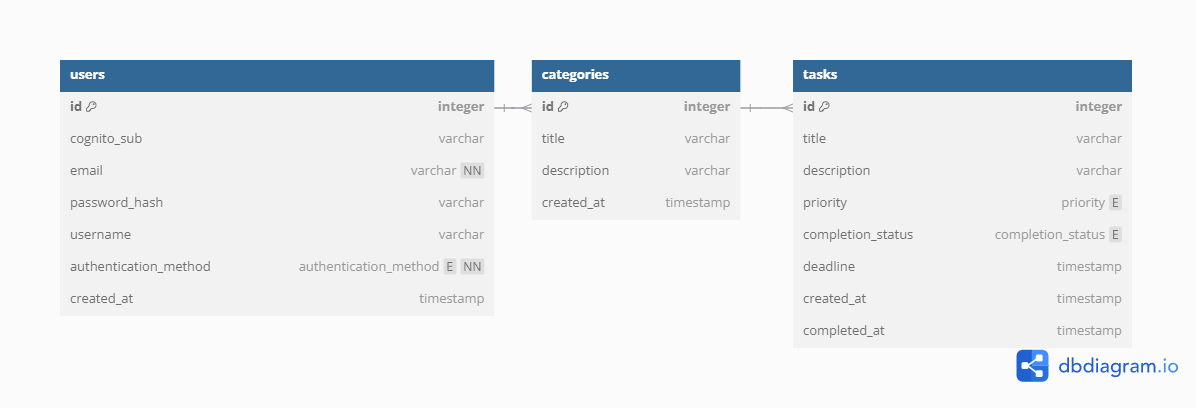
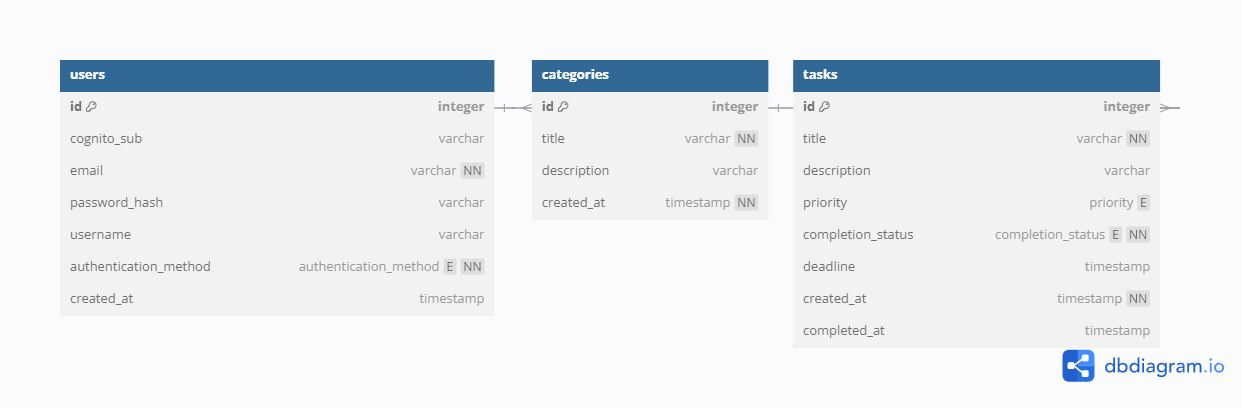
refactor: updated jpa entities

diff --git a/iap-api/src/main/java/ua/es/iap_api/entities/Task.java b/iap-api/src/main/java/ua/es/iap_api/entities/Task.java
@@ -20,29 +20,31 @@ public class Task {
     @GeneratedValue(strategy = GenerationType.AUTO)
     private Long id;
 
-    @Column(name = "title")
+    @Column(name = "title", nullable = false)
     private String title;
 
     @Column(name = "description")
     private String description;
 
     @Column(name = "priority")
+    @Enumerated(EnumType.STRING)
     private Priority priority;
 
-    @Column(name = "completion_status")
-    private String completionStatus;
+    @Column(name = "completion_status", nullable = false)
+    @Enumerated(EnumType.STRING)
+    private CompletionStatus completionStatus;
 
     @Column(name = "deadline")
     private LocalDateTime deadline;
 
-    @Column(name = "created_at")
-    private LocalDateTime createdAt;
+    @Column(name = "created_at", nullable = false)
+    private LocalDateTime createdAt = LocalDateTime.now();
 
     @Column(name = "completed_at")
     private LocalDateTime completedAt;
 
     @ManyToOne
-    @JoinColumn(name = "category_id")
+    @JoinColumn(name = "category_id", nullable = false)
     private Category category;
 
 }

diff --git a/iap-api/src/main/java/ua/es/iap_api/entities/User.java b/iap-api/src/main/java/ua/es/iap_api/entities/User.java
@@ -20,19 +20,20 @@ public class User {
     @GeneratedValue(strategy = GenerationType.AUTO)
     private Long id;
 
-    @Column(name = "auth0_user_id")
-    private String auth0UserId;
+    @Column(name = "cognito_sub")
+    private String cognitoSub;
 
-    @Column(name = "email")
+    @Column(name = "email", unique = true, nullable = false)
     private String email;
 
-    @Column(name = "name")
-    private String name;
+    @Column(name = "username")
+    private String username;
 
-    @Column(name = "picture")
-    private String picture;
+    @Column(name = "authentication_method" , nullable = false)
+    @Enumerated(EnumType.STRING)
+    private AuthenticationMethod authenticationMethod;
 
     @Column(name = "created_at")
-    private LocalDateTime createdAt;
+    private LocalDateTime createdAt = LocalDateTime.now();
 
 }

diff --git a/iap-api/src/main/java/ua/es/iap_api/entities/Category.java b/iap-api/src/main/java/ua/es/iap_api/entities/Category.java
@@ -20,16 +20,16 @@ public class Category {
     @GeneratedValue(strategy = GenerationType.AUTO)
     private Long id;
 
-    @Column(name = "title")
+    @Column(name = "title", nullable = false)
     private String title;
 
     @Column(name = "description")
     private String description;
 
-    @Column(name = "created_at")
-    private LocalDateTime createdAt;
+    @Column(name = "created_at", nullable = false)
+    private LocalDateTime createdAt = LocalDateTime.now();
 
     @ManyToOne
-    @JoinColumn(name = "user_id")
+    @JoinColumn(name = "user_id", nullable = false)
     private User user;
 }

diff --git a/iap-api/src/main/java/ua/es/iap_api/entities/AuthenticationMethod.java b/iap-api/src/main/java/ua/es/iap_api/entities/AuthenticationMethod.java
@@ -1,0 +1,5 @@
+package ua.es.iap_api.entities;
+
+public enum AuthenticationMethod {
+    COGNITO, CREDENTIALS
+}
